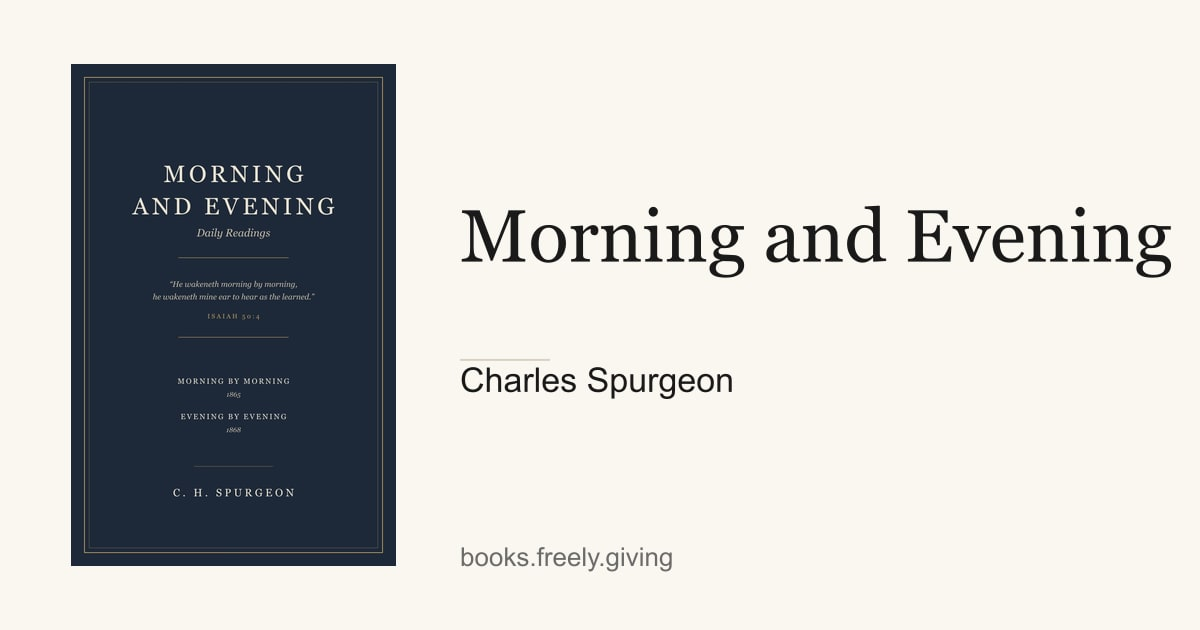
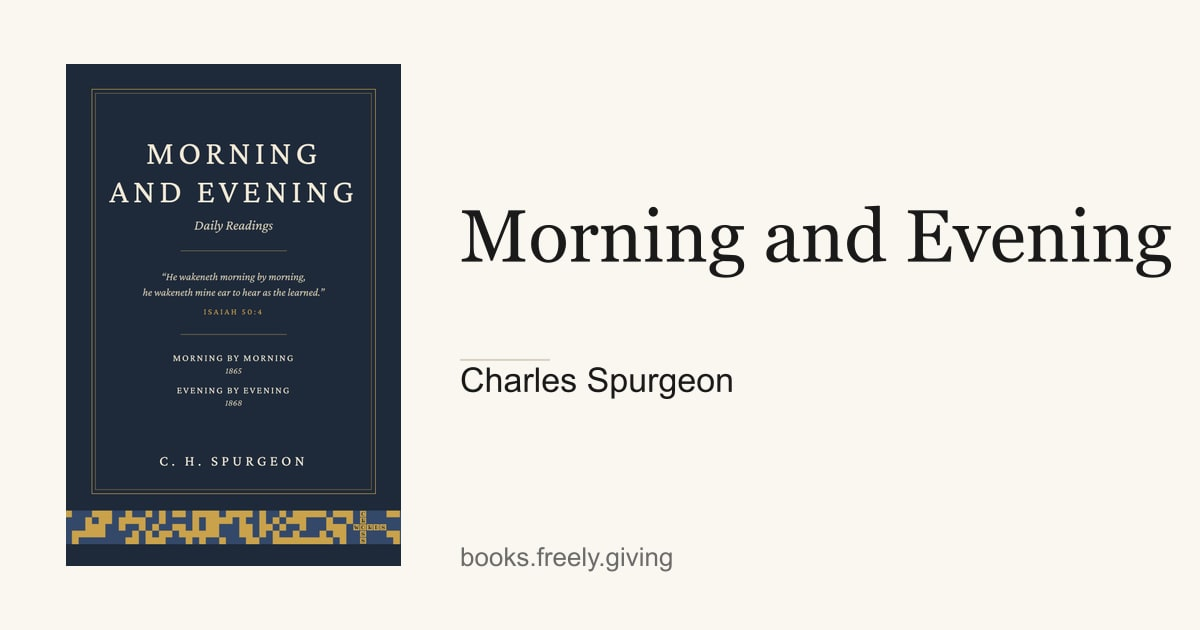
Morning and Evening: full cover with the CROSSWORDS strip, house-style copyright page
Wrap cover (front, spine, back with Spurgeon's portrait) and a copyright page
matching Michael's other books: prepared-by line, Freely Given dedication,
CROSSWORDS note. Read Online HTML rebuilt; the PDF goes to R2 separately.

Changed region(s): [[0.0308, 0.1206, 0.3392, 0.9048]]

diff --git a/data/src/books/morning-and-evening/content/morning-and-evening.html b/data/src/books/morning-and-evening/content/morning-and-evening.html
@@ -140,11 +140,15 @@ a { color: var(--accent); }
 </section>
 <section class="copyright" id="copyright"><p><em>Morning and Evening: Daily Readings</em></p>
 <p>by C. H. Spurgeon</p>
-<p>First published as <em>Morning by Morning</em> (1865) and <em>Evening by Evening</em> (1868). Spurgeon's text is in the public domain; everything added in this edition I dedicate to the public domain under <a href="https://creativecommons.org/publicdomain/zero/1.0/">CC0</a>. In the spirit of Freely Giving (Matthew 10:8), you may freely copy, print, translate, or use it. May it be used for the glory of our risen Saviour, Jesus Christ.</p>
+<p>This edition prepared by Michael A. Coughlin.</p>
+<p>In the spirit of Freely Giving (Matthew 10:8), I dedicate this edition to the public domain. You may freely copy, print, translate, or use this work. I trust it will be used for the glory of our risen Savior, Jesus Christ.</p>
[1 lines of base64/hex data omitted]
-<p>Read it online, download it, or order copies at cost: <a href="https://books.freely.giving/books/charles-spurgeon/morning-and-evening/">books.freely.giving/books/charles-spurgeon/morning-and-evening</a>.</p>
-<p>The text of the readings follows the public-domain electronic edition of the Christian Classics Ethereal Library (ccel.org), with Spurgeon’s own spellings restored (“to-day,” “to-night,” “to-morrow,” “for ever”). Spurgeon’s prefaces to the two original volumes are transcribed from the first American printings (New York: Robert Carter &amp; Brothers, 1865 and 1868). Scripture quotations are Spurgeon’s, from the King James Version.</p>
-<p>This edition was prepared by Michael A. Coughlin, 2026. First edition.</p>
+<p>View my author page and order more copies of this book (at cost), or share and read it electronically here: <a href="https://books.freely.giving/people/michael-coughlin/">books.freely.giving/people/michael-coughlin</a>.</p>
+<p>First published as <em>Morning by Morning</em> (1865) and <em>Evening by Evening</em> (1868). The text of the readings follows the public-domain electronic edition of the Christian Classics Ethereal Library (ccel.org), with Spurgeon’s own spellings restored (“to-day,” “to-night,” “to-morrow,” “for ever”). Spurgeon’s prefaces to the two original volumes are transcribed from the first American printings (New York: Robert Carter &amp; Brothers, 1865 and 1868).</p>
+<p>Scripture quotations are Spurgeon’s, from the King James Version, which is in the public domain.</p>
+<p>CROSSWORDS: These are WORDS about the CROSS. The crossword logo spells CROSS down and WORDS across. May I always boast in nothing but the cross of Christ.</p>
+<p>Michael A. Coughlin.</p>
+<p>First edition, 2026.</p>
 </section>
 <section class="dedication" id="dedication"><h2 class="matter-title">Dedication</h2><p>This volume is dedicated to the many men who have influenced me to do family worship, most recently my dear pastor Andrew Beebe whose model of leading his family is worthy of emulation by all.</p>
 <p>May the words of Spurgeon assist fathers and mothers everywhere in the discipline and admonition of the Lord!</p>
